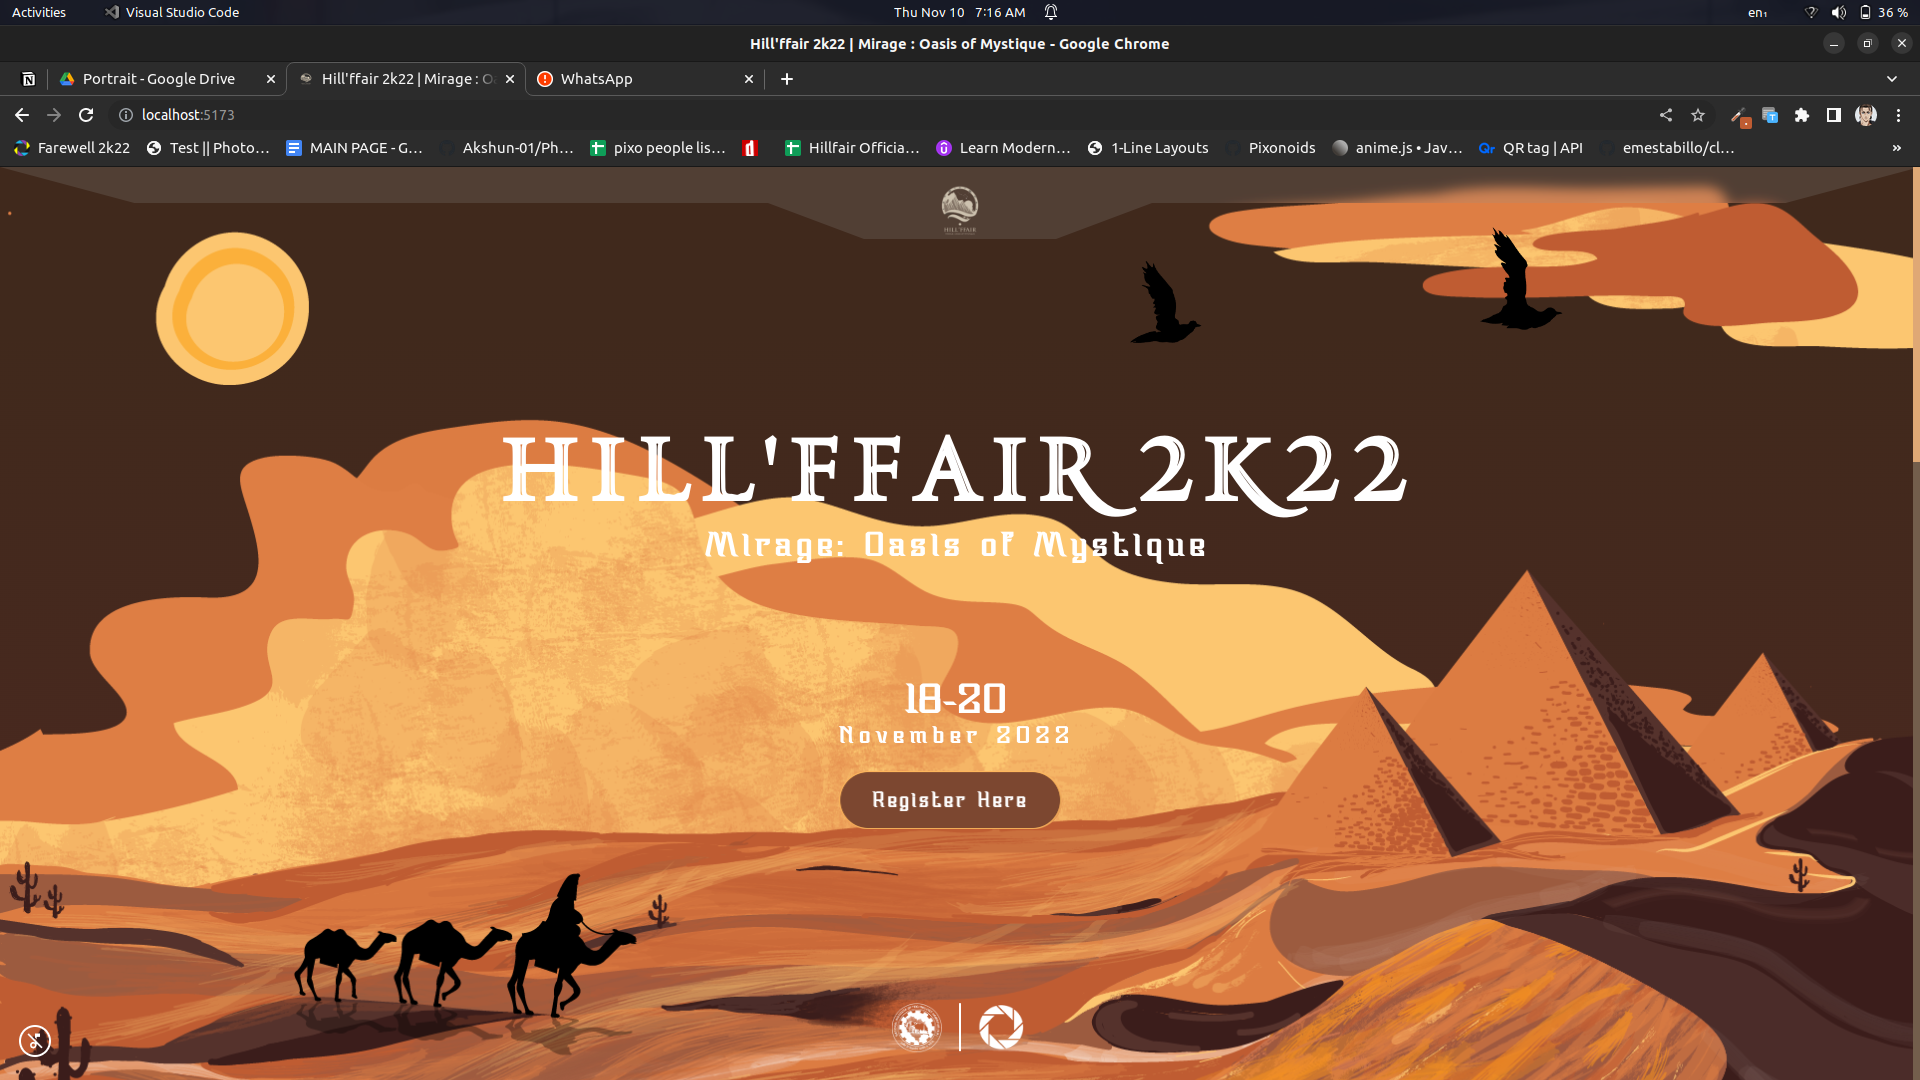
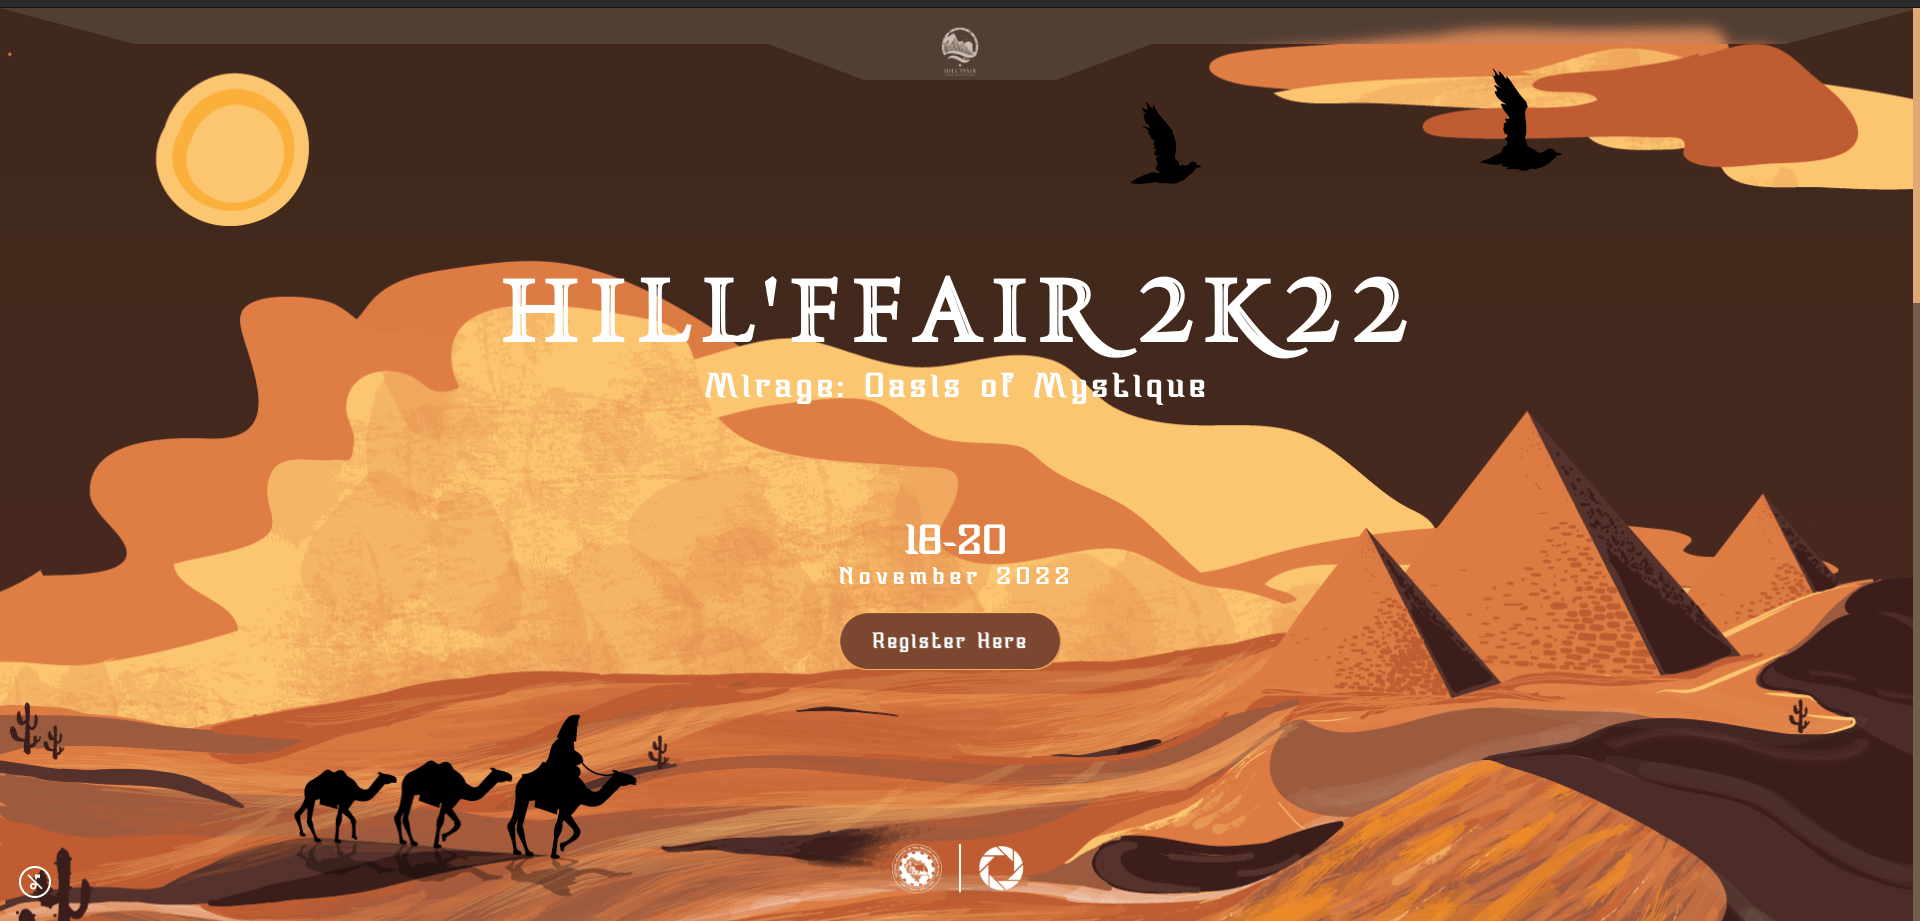
added github links for projects

diff --git a/src/components/Projects/Projects.jsx b/src/components/Projects/Projects.jsx
@@ -16,38 +16,43 @@ function Projects() {
         "This project utilizes openCV's face recognition model to create an advanced attendance system. It captures user photos, automatically updating attendance records in a spreadsheet. With a user-friendly interface, emphasis on security, and continuous improvement, it offers a reliable and efficient solution for organizations seeking streamlined attendance tracking.",
       img: "opencv",
       link: "https://github.com/Aditya3435/Attendance-System-using-Face-Recognition",
+      gitubLink: 'https://github.com/Aditya3435/Attendance-System-using-Face-Recognition'
     },
     {
       id: "1",
       title: "Nimbus Technical Fest Website",
       description:
-        "This college technical fest website, developed using React.js, SASS, Canvajs, ThreeJs, and pnpm packages, boasts an engaging design featuring captivating animations across six distinct pages. Each page is thoughtfully crafted with a unique layout style, contributing to an immersive and visually appealing user experience.",
+      "This college technical fest website, developed using React.js, SASS, Canvajs, ThreeJs, and pnpm packages, boasts an engaging design featuring captivating animations across six distinct pages. Each page is thoughtfully crafted with a unique layout style, contributing to an immersive and visually appealing user experience.",
       img: "nimbus",
       link: "https://festnimbus.nith.ac.in/",
+      gitubLink: 'https://github.com/pixonoids/Nimbus-2k23'
     },
     {
       id: "2",
       title: "Hillffair Cultural Fest Website",
       description:
-        "Made this cultural fest website with my team using Reactjs showcasing NIT hamirpur cultural fest thoroughly.",
+      "Made this cultural fest website with my team using Reactjs showcasing NIT hamirpur cultural fest thoroughly.",
       img: "hillffair",
       link: "https://www.hillffairnith.com/",
+      gitubLink: 'https://github.com/pixonoids/Hillfair-2022-Mirage'
     },
     {
       id: "3",
       title: "Pomodoro Web App",
       description:
-        "To enhance productivity, I developed a Pomodoro timer web app using HTML, CSS, and JavaScript. The app offers the flexibility of setting time manually or using default settings, catering to individual preferences. Additionally, it provides three distinct color themes to optimize the user experience, making it a versatile and visually appealing tool for efficient time management.",
+      "To enhance productivity, I developed a Pomodoro timer web app using HTML, CSS, and JavaScript. The app offers the flexibility of setting time manually or using default settings, catering to individual preferences. Additionally, it provides three distinct color themes to optimize the user experience, making it a versatile and visually appealing tool for efficient time management.",
       img: "pomodoro",
       link: "https://aditya3435.github.io/pomodoro-app/",
+      gitubLink: 'https://github.com/Aditya3435/pomodoro-app'
     },
     {
       id: "4",
       title: "Password Generator using Terminal",
       description:
-        "Scripted a password generator for the terminal using a Bash script, ensuring ease of use, and 100% secure random password by providing clear instructions in a well-documented README, guiding users through the installation and usage of the script.",
+      "Scripted a password generator for the terminal using a Bash script, ensuring ease of use, and 100% secure random password by providing clear instructions in a well-documented README, guiding users through the installation and usage of the script.",
       img: "password",
       link: "https://github.com/Aditya3435/generate_password_using_terminal",
+      gitubLink: 'https://github.com/Aditya3435/pomodoro-app'
     },
 
     // change desktopPhotos class bottom 77% to more if increase project
@@ -149,6 +154,7 @@ function Projects() {
               >
                 <h1>{item.title}</h1>
                 <p>{item.description}</p>
+                <a href={item.gitubLink} target="_blank" className="text-teal md:text-2xl md:mt-4"> Github Link</a>
               </div>
             ))}
           </div>
@@ -161,6 +167,7 @@ function Projects() {
                 <Image src={`/images/projects/${item.img}.png`} alt='project-photo' width={150} height={150}/>
                 <h1  data-aos='fade-up'>{item.title}</h1>
                 <p  data-aos='fade-up'>{item.description}</p>
+                <a href={item.gitubLink} target="_blank" className="text-teal md:text-2xl md:mt-4">  GitHub Link</a>
               </div>
             ))}
           </div>

diff --git a/src/components/Contact/Contact.scss b/src/components/Contact/Contact.scss
@@ -254,12 +254,7 @@ $color_5: #000000;
 
     .group {
         position: relative;
-        margin: 2.5rem 0;
-        &:nth-child(4) {
-            label {
-                bottom: 0.5rem;
-            }
-        }
+        margin: 2rem 0;
         &:last-child {
             float: right;
         }
@@ -281,7 +276,7 @@ $color_5: #000000;
         -webkit-transition: 0.2s ease all;
     }
 
-    input {
+    input, textarea {
         font-size: 13px;
         height: 25px;
         padding: 10px 10px 10px 5px;
@@ -304,14 +299,18 @@ $color_5: #000000;
         }
 
         &:focus~label {
-            bottom: 25px;
+            bottom: 30px;
             font-size: 12px;
             color: $color_3;
             opacity: 1;
+            opacity: 1;
+            @media (max-width:600px) {
+                color: var(--foreground-rgb);
+            }
         }
 
         &:valid~label {
-            bottom: 25px;
+            bottom: 30px;
             font-size: 12px;
             color: $color_3;
             opacity: 1;
@@ -326,49 +325,9 @@ $color_5: #000000;
             color: var(--foreground-rgb);
         }
     }
-
-    textarea {
-        font-size: 13px;
-        height: 25px;
-        padding: 10px 10px 10px 5px;
-        display: block;
-        width: 300px;
-        border: none;
-        outline: none;
-        border-bottom: 1px solid var(--background-end-rgb);
-        @media (max-width:600px) {
-            border-bottom: 1px solid var(--foreground-rgb);
-            color: var(--foreground-rgb);
+        textarea {
+            overflow: hidden;
         }
-        color: $color_3;
-        background: rgba(0, 0, 0, 0);
-        opacity: 0.5;
-        transition: 0.2s ease;
-        height: 50px;
-
-        &:focus {
-            outline: none;
-            opacity: 1;
-        }
-
-        &:focus~label {
-            top: -10px;
-            font-size: 12px;
-            color: $color_3;
-            opacity: 1;
-            @media (max-width:600px) {
-                color: var(--foreground-rgb);
-            }
-        }
-
-        &:valid~label {
-            top: -10px;
-            font-size: 12px;
-            color: $color_3;
-            opacity: 1;
-        }
-    }
-
     
     .highlight {
         position: absolute;
@@ -380,7 +339,7 @@ $color_5: #000000;
         opacity: 0.5;
     }
 
-    a.send-btn {
+    button.send-btn {
         position: absolute;
         right: 2rem;
         transition: 0.2s ease;

diff --git a/src/app/globals.scss b/src/app/globals.scss
@@ -53,16 +53,16 @@ main .page-container {
 
 /* Handle */
 ::-webkit-scrollbar-thumb {
-  background-color: #3498db;
+  background-color: var(--teal);
   /* Change the color as needed */
   border-radius: 6px;
 }
 
-/* Handle on hover */
-::-webkit-scrollbar-thumb:hover {
-  background-color: #2980b9;
-  /* Change the hover color as needed */
-}
+// /* Handle on hover */
+// ::-webkit-scrollbar-thumb:hover {
+//   background-color: #2980b9;
+//   /* Change the hover color as needed */
+// }
 
 /* Track on hover */
 ::-webkit-scrollbar-track:hover {
@@ -86,8 +86,4 @@ main .page-container {
 ::-webkit-scrollbar-corner {
   background-color: #ffffff;
   /* Change the corner color as needed */
-}
-
-.custom-line:before {
-  background: blue;
 }

diff --git a/src/components/Header/Header.jsx b/src/components/Header/Header.jsx
@@ -129,7 +129,7 @@ function Header() {
 
   return (
     <main className=" h-screen flex flex-col w-screen" ref={ref} id="home">
-      {isInView ? (
+      {isInView && 
         <div className="m-auto flex flex-col gap-2">
           <motion.div
             initial="hidden"
@@ -177,10 +177,8 @@ function Header() {
             </a>
           </div>
         </div>
-      ) : (
-        ""
-      )}
-      <div className="scroll-down flex flex-col items-center origin-top-left">
+      }
+      <div className="scroll-down flex flex-col items-center origin-top-left -mt-4">
         <div className=" p-1 rounded-md pointer-events-none">Scroll Down</div>
         <KeyboardArrowDownIcon />
       </div>

diff --git a/src/components/Contact/Contact.jsx b/src/components/Contact/Contact.jsx
@@ -94,7 +94,7 @@ const Contact = () => {
                 </div>
 
                 <div className="group flex items-center justify-center gap-4">
-                  {<div className="text-background-end">{submitMessage}</div>}
+                  {<div className="text-background-end max-sm:text-foreground">{submitMessage}</div>}
                 <button type="submit" onClick={()=>handleSubmit()} className={`send-btn text-gray-900 border border-gray-300 focus:outline-none hover:bg-gray-100 focus:ring-4 focus:ring-gray-200 font-medium rounded-lg text-sm px-5 py-2.5 me-2 mb-2 ${submitted && 'hidden'}`}>
                   Send
                 </button>

diff --git a/src/components/About/About.jsx b/src/components/About/About.jsx
@@ -129,8 +129,8 @@ export default function About() {
                     className=" w-auto h-fit rounded-xl m-2 transition-all hover:scale-105"
                     src={`/images/techstack/languages/${el}_${el2}.png`}
                     alt="tech-stack"
-                    width={isDesktopOrLaptop ? 80 : 20}
-                    height={isDesktopOrLaptop ? 50 : 10}
+                    width={isDesktopOrLaptop ? 80 : 30}
+                    height={isDesktopOrLaptop ? 50 : 15}
                   />
                 ))}
               </div>

diff --git a/src/components/Experience/Experience.jsx b/src/components/Experience/Experience.jsx
@@ -6,7 +6,7 @@ function Experience() {
     const ref = useRef(null); // 1263 x 563
     const view = useInView(ref);
     return (
-        <div className='flex flex-col items-center justify-center gap-8 w-screen h-screen max-sm:mt-10' ref={ref}>
+        <div className='flex flex-col items-center justify-center gap-8 md:w-full w-11/12 h-screen max-sm:mt-10' ref={ref}>
             <h1 className='text-5xl font-bold mb-10'>Experience</h1>
             <VerticalTimeline lineColor='var(--foreground-rgb)'>
                 <VerticalTimelineElement

diff --git a/src/components/Projects/Projects.scss b/src/components/Projects/Projects.scss
@@ -3,7 +3,7 @@
 }
 .gallery h1 {
 
-	font-size:3em;
+	font-size:2.8em;
     font-weight: bold;
     color: var(--teal);
 }
@@ -88,7 +88,7 @@
 	width:100%;
 	height:100%;
     background-size: cover;
-    background-position: center;
+    background-position: center center;
     background-repeat: no-repeat;
     &:last-child {
         background-position: left;
